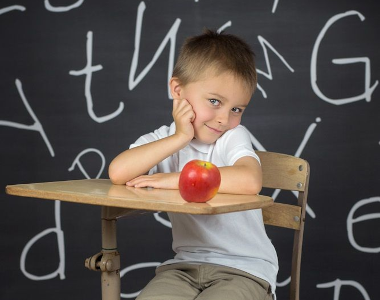
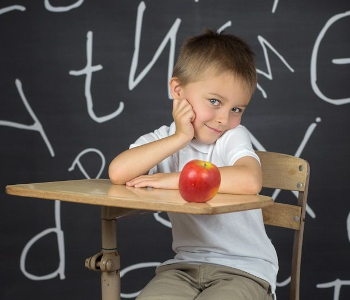
fix: images width

diff --git a/app/[locale]/about/page.tsx b/app/[locale]/about/page.tsx
@@ -20,12 +20,12 @@ const About = () => {
     ));
 
   return (
-    <div className="flex flex-col items-center justify-center w-full min-h-[calc(100vh-100px)] p-2 overflow-auto bg-gradient-to-br from-violet-300 via-indigo-300 to-purple-300">
-      <div className="p-2 my-4 rounded bg-violet-100">
-        <h2 className="mb-4 text-xl font-semibold text-center text-indigo-800">
+    <div className="flex flex-col items-center justify-center w-full min-h-[calc(100vh-100px)] p-2 overflow-y-auto bg-gradient-to-br from-violet-300 via-indigo-300 to-purple-300">
+      <div className="p-2 my-4 text-indigo-800 rounded bg-gradient-to-br from-purple-100 via-white to-violet-100">
+        <h2 className="mb-2 text-xl font-semibold text-center text-purple-800">
           {t("title")}
         </h2>
-        <p className="max-w-md text-justify">{t("text")}</p>
+        <p className="max-w-md text-justify text-indigo-800">{t("text")}</p>
       </div>
 
       <div className="flex flex-wrap items-center justify-center gap-4">

diff --git a/components/CardBox/index.tsx b/components/CardBox/index.tsx
@@ -4,15 +4,15 @@ import ImageBox from "../ImageBox";
 const CardBox = ({
   title,
   description,
-  width = 380,
+  width = 350,
   height = 300,
   imagePath,
 }: CardBoxProps) => {
   return (
-    <div className="w-[380px] flex flex-col justify-center rounded shadow-md item-center shadow-violet-400 bg-indigo-50">
+    <div className="w-[350px] flex flex-col justify-center rounded shadow-md item-center shadow-violet-400 bg-gradient-to-br from-purple-100 via-white to-violet-100">
       <ImageBox src={imagePath} alt={title} width={width} height={height} />
-      <h6 className="m-2 text-2xl text-purple-700">{title}</h6>
-      <p className="h-[160px] m-2 text-indigo-600 text-md text-justify">
+      <h6 className="mt-2 ml-2 text-2xl text-purple-800">{title}</h6>
+      <p className="h-[180px] p-2 text-indigo-800 text-md text-justify">
         {description}
       </p>
     </div>

diff --git a/components/ImageBox/index.tsx b/components/ImageBox/index.tsx
@@ -2,10 +2,8 @@ import Image from "next/image";
 import ImageBoxProps from "./ImageBoxProps";
 
 const ImageBox = ({ src, alt, width, height }: ImageBoxProps) => {
-  const getStyle = () => `relative w-[${width}px] h-[${height}px]`;
-
   return (
-    <div className={getStyle()}>
+    <div className={`relative w-[${width}px] h-[${height}px]`}>
       <Image
         className="object-cover"
         src={src}
